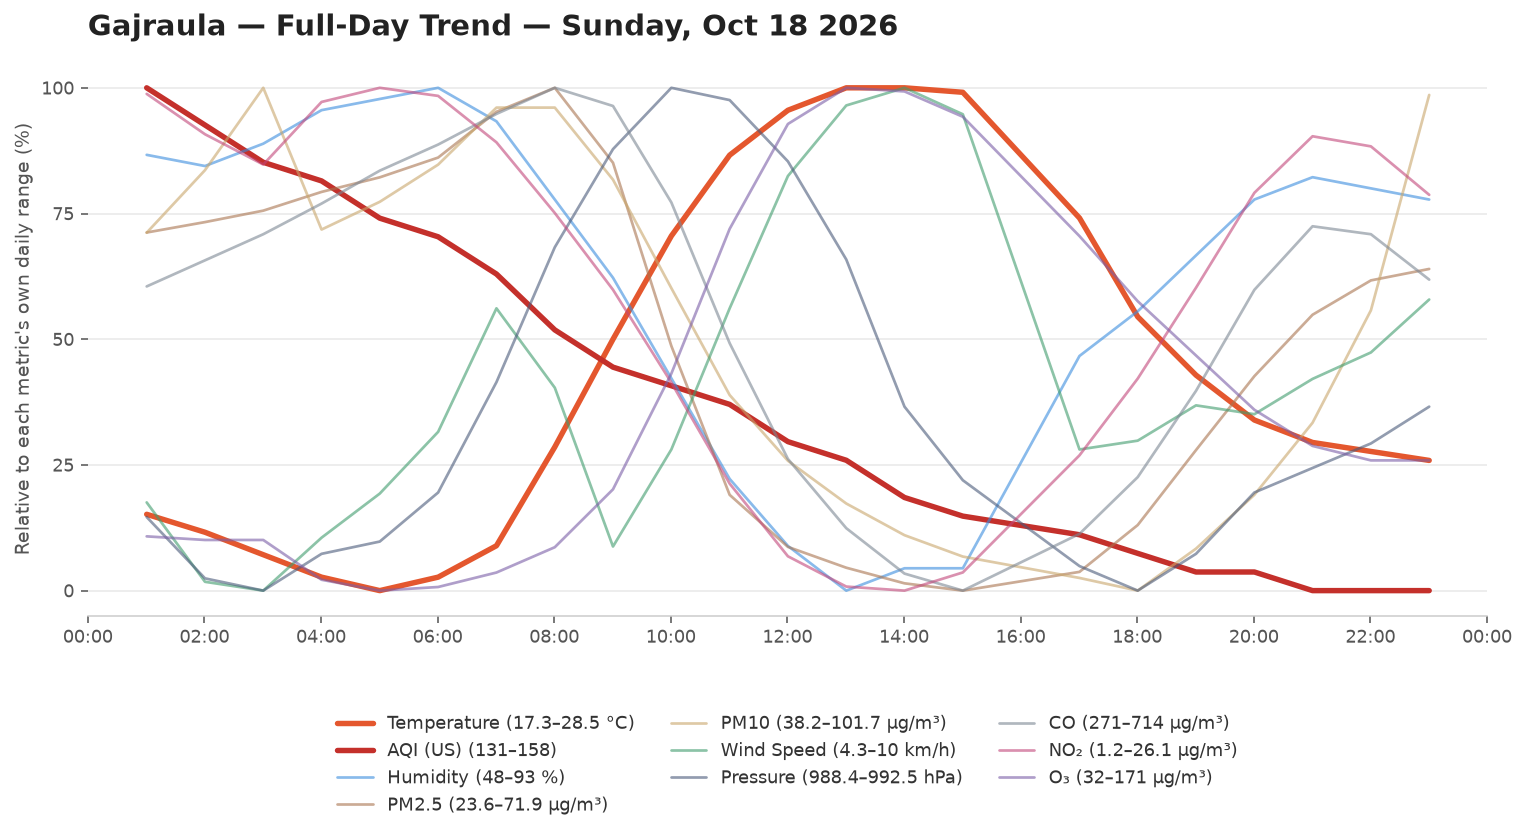
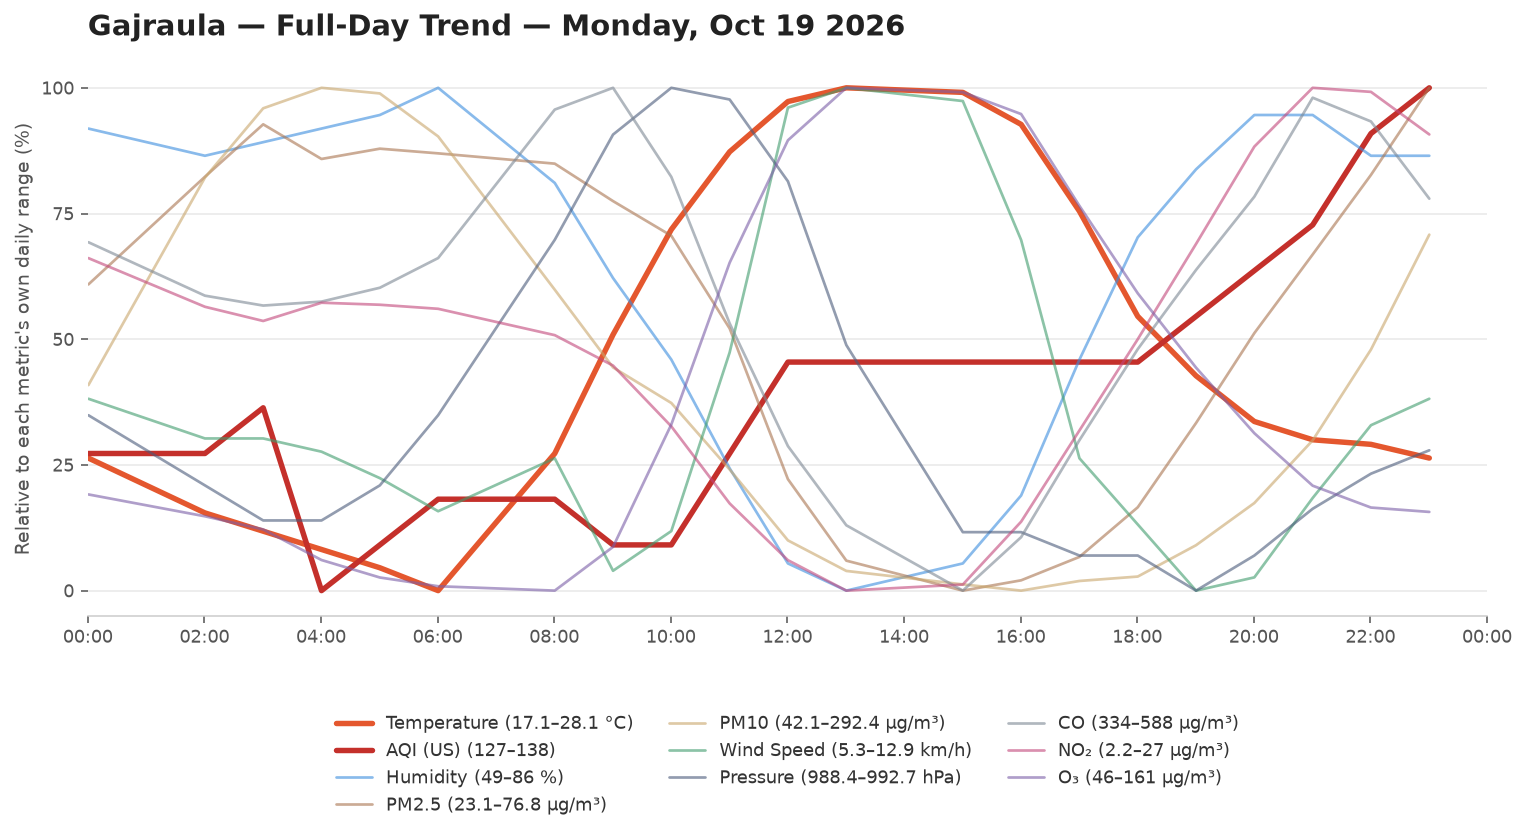
Auto-update weather data 2026-10-19 18:30 UTC

diff --git a/README.md b/README.md
@@ -9,24 +9,25 @@ Automated Weather Logger. Logs Temperature,Humidity,Wind speed, Pressure and Air
 ## 📊 Current Conditions
 
 <!-- DATA-START -->
-**Last updated:** `2026-10-19 17:30:37 UTC`
+**Last updated:** `2026-10-19 18:30:38 UTC`
 
 | Metric | Value |
 |---|---|
-| 🌡 Temperature | 20.0 °C |
-| 💧 Humidity | 81 % |
+| 🌡 Temperature | 19.7 °C |
+| 💧 Humidity | 82 % |
 | 🌧 Rain (last hr) | 0.0 mm |
-| 💨 Wind Speed | 8.2 km/h |
-| 🧭 Wind Direction | 262° |
-| 🔵 Pressure | 989.6 hPa |
-| 🌫 AQI (US) | 138 — Unhealthy for Sensitive Groups 🟠 |
-| PM2.5 | 76.8 µg/m³ |
-| PM10 | 219.3 µg/m³ |
+| 💨 Wind Speed | 8.1 km/h |
+| 🧭 Wind Direction | 266° |
+| 🔵 Pressure | 989.5 hPa |
+| 🌫 AQI (US) | 141 — Unhealthy for Sensitive Groups 🟠 |
+| PM2.5 | 85.9 µg/m³ |
+| PM10 | 288.7 µg/m³ |
 
 <details><summary>Last 24 readings</summary>
 
 | Time (UTC) | Temp °C | Rain mm | AQI | Wind km/h | Humidity % |
 |---|---|---|---|---|---|
+| 2026-10-19 18:30:38 | 19.7 | 0.0 | 141 | 8.1 | 82 |
 | 2026-10-19 17:30:37 | 20.0 | 0.0 | 138 | 8.2 | 81 |
 | 2026-10-19 16:30:35 | 20.3 | 0.0 | 137 | 7.8 | 81 |
 | 2026-10-19 15:30:35 | 20.4 | 0.0 | 135 | 6.7 | 84 |
@@ -50,7 +51,6 @@ Automated Weather Logger. Logs Temperature,Humidity,Wind speed, Pressure and Air
 | 2026-10-18 18:30:34 | 20.0 | 0.0 | 130 | 8.2 | 83 |
 | 2026-10-18 17:30:31 | 20.2 | 0.0 | 131 | 7.6 | 83 |
 | 2026-10-18 16:30:32 | 20.4 | 0.0 | 131 | 7.0 | 84 |
-| 2026-10-18 15:30:28 | 20.6 | 0.0 | 131 | 6.7 | 85 |
 
 </details>
 <!-- DATA-END -->
@@ -66,7 +66,10 @@ Every logged metric for yesterday (the last fully completed day, midnight-to-mid
 Every day's full-day trend chart, newest first. No retention limit — this grows forever.
 
 <!-- HISTORY-START -->
-<details><summary>Last 73 day(s)</summary>
+<details><summary>Last 74 day(s)</summary>
+
+**2026-10-19**
+![2026-10-19 trend](data/chart-history/2026-10-19.png)
 
 **2026-10-18**
 ![2026-10-18 trend](data/chart-history/2026-10-18.png)
